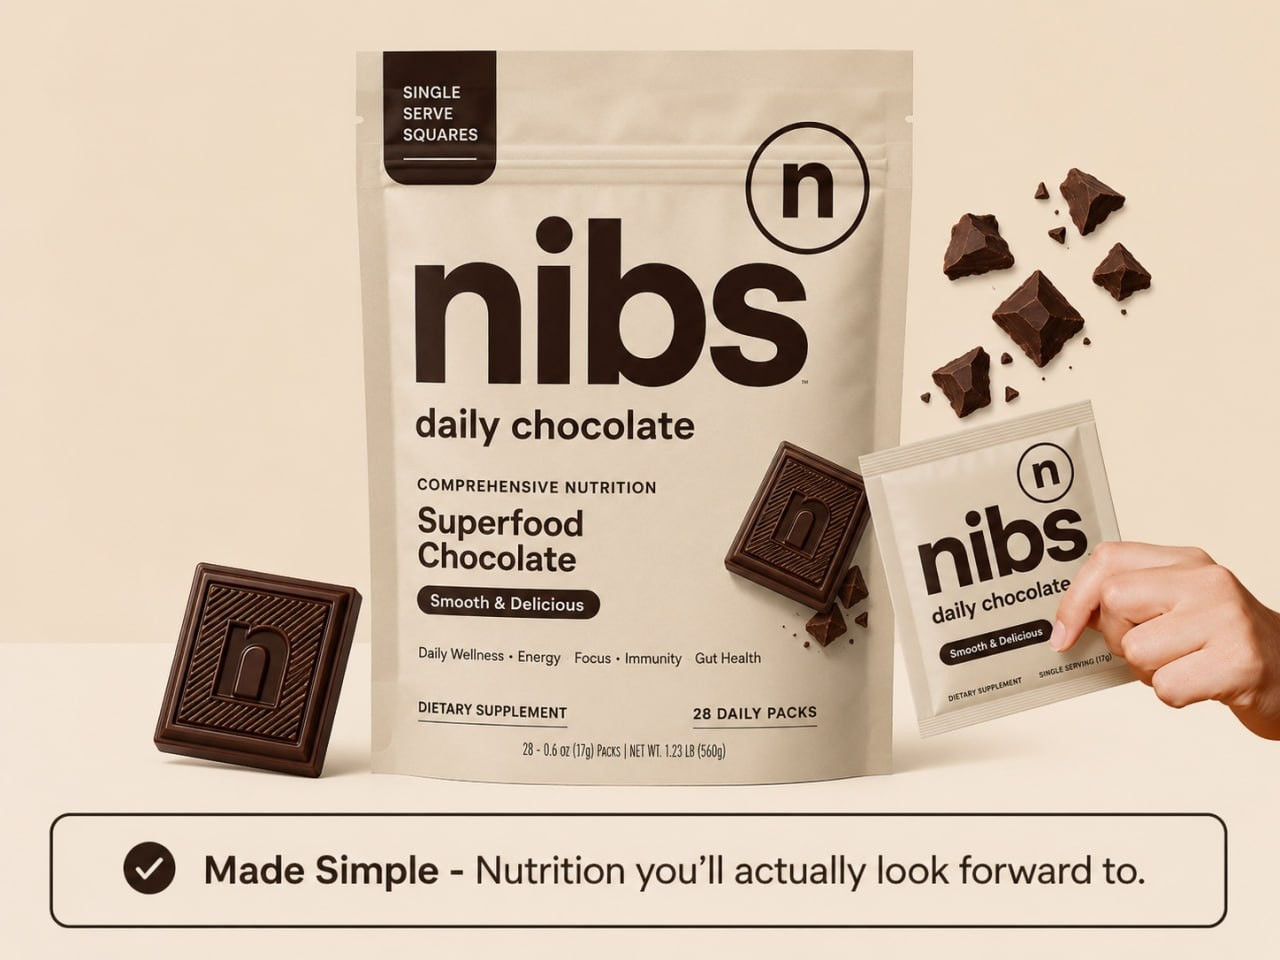
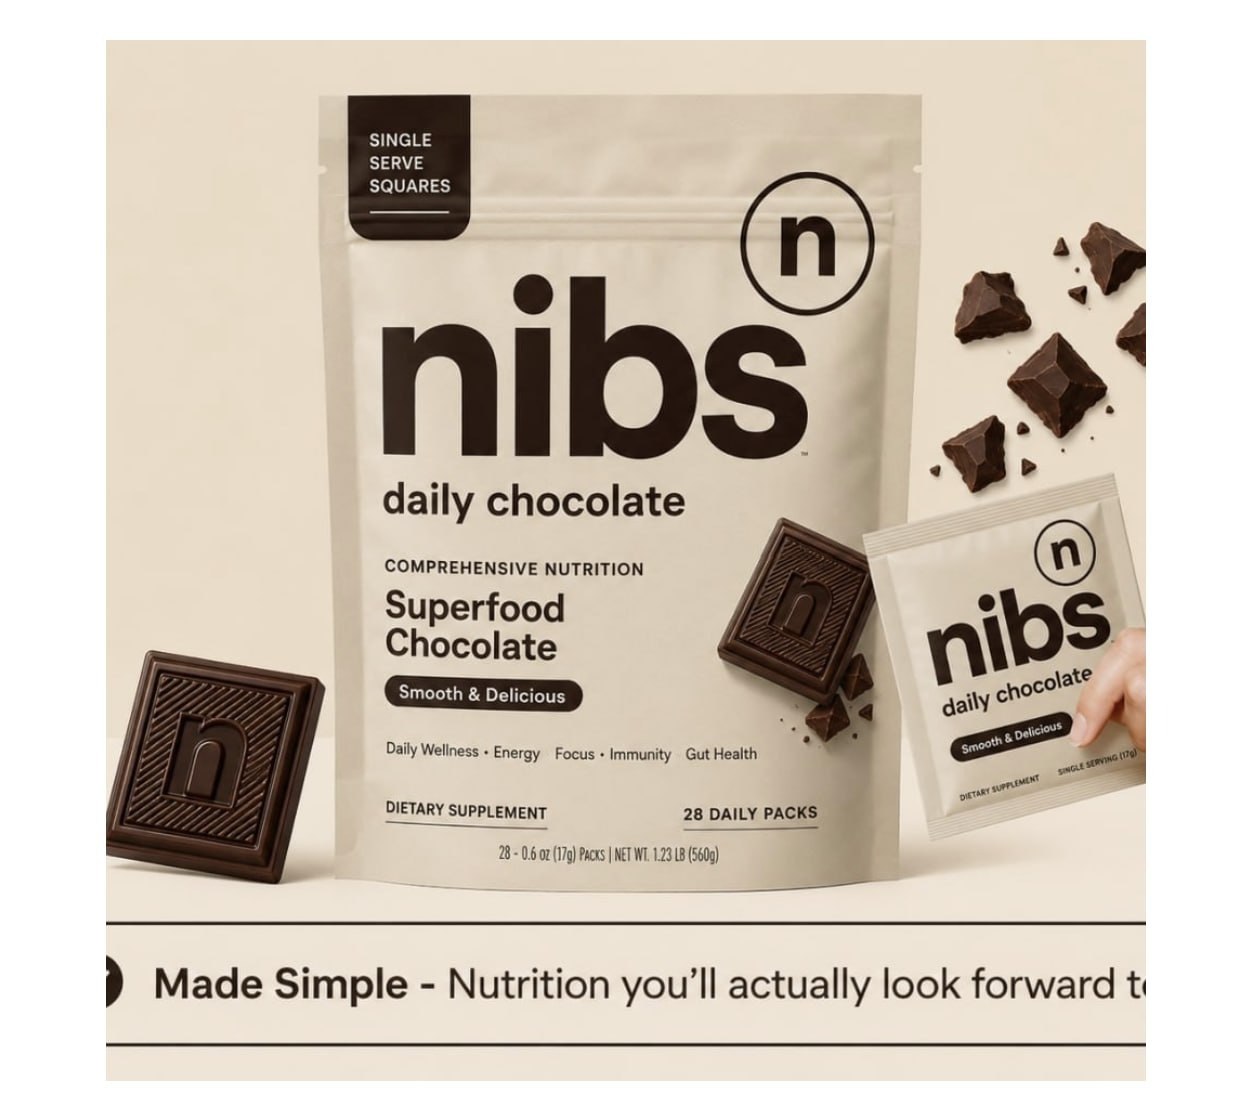
Fix hero image crop: show full packaging, no square cut-off
Hero used 1:1 aspect-ratio + object-fit cover, which clipped Nibs
banner/packaging. Switch template + Nibs to natural aspect contain,
refresh hero asset, and document the no-crop rule.

diff --git a/landertemplate.html b/landertemplate.html
@@ -103,10 +103,11 @@
     .hero-visual img {
       width: 100%;
       height: auto;
-      border-radius: 0;
-      aspect-ratio: 1 / 1;
-      object-fit: cover;
-      background: color-mix(in srgb, var(--primary) 6%, #fff);
+      border-radius: 12px;
+      display: block;
+      object-fit: contain;
+      object-position: center;
+      background: transparent;
     }
 
     /* —— Value prop —— */
@@ -492,8 +493,8 @@
         <img
           src="images/[[8_BRAND_SLUG]]/[[2_HERO_IMAGE]]"
           alt="[[8_BRAND_NAME]]"
-          width="1024"
-          height="1024"
+          width="1200"
+          height="900"
         >
       </div>
     </div>

diff --git a/nibs.html b/nibs.html
@@ -103,10 +103,11 @@
     .hero-visual img {
       width: 100%;
       height: auto;
-      border-radius: 0;
-      aspect-ratio: 1 / 1;
-      object-fit: cover;
-      background: color-mix(in srgb, var(--primary) 6%, #fff);
+      border-radius: 12px;
+      display: block;
+      object-fit: contain;
+      object-position: center;
+      background: transparent;
     }
 
     /* —— Value prop —— */
@@ -492,8 +493,8 @@
         <img
           src="images/nibs/hero.jpg"
           alt="Nibs"
-          width="1024"
-          height="1024"
+          width="1280"
+          height="960"
         >
       </div>
     </div>

diff --git a/landingpageinstructions.md b/landingpageinstructions.md
@@ -113,7 +113,7 @@ images/soovi/icon-4.png
 | Image | Specs |
 |---|---|
 | Favicon / logo | Square PNG, transparent background |
-| Hero / header image | Top-of-page product visual (may include text/badges baked into the image) |
+| Hero / header image | Top-of-page product visual (may include text/badges baked into the image). **Do not force square crop** — template uses full natural aspect with `object-fit: contain` so banners/packaging edges are not cut off. |
 | Benefit icons (×4) | PNG or SVG; shown at 48×48 — keep simple and clear |
 
 Template paths look like: `images/[[8_BRAND_SLUG]]/[[1_FAVICON]]`
